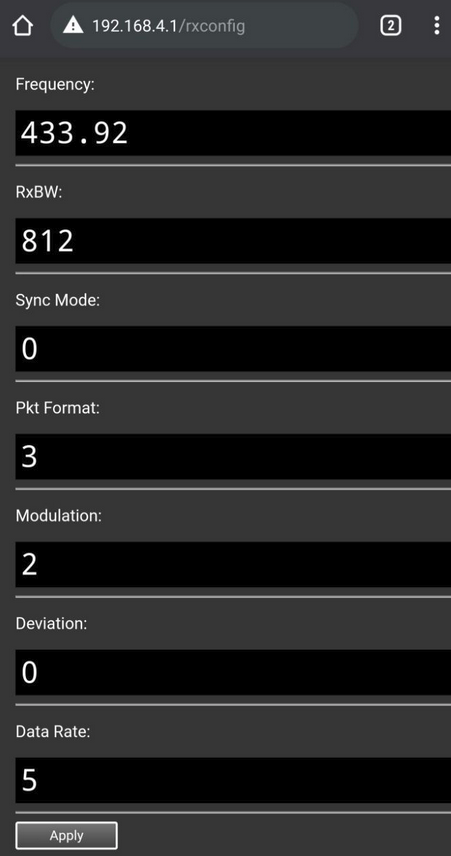
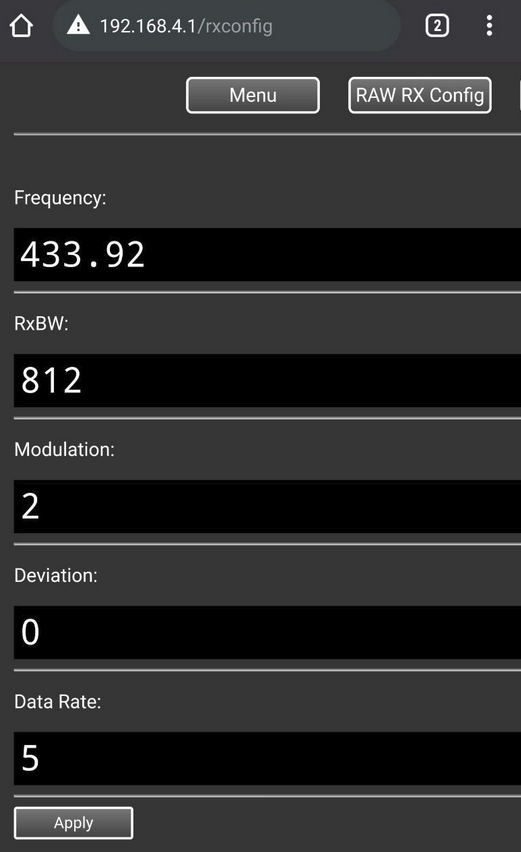
v1.0

diff --git a/EvilCrowRF-RAW/rxconfig.h b/EvilCrowRF-RAW/rxconfig.h
@@ -74,17 +74,13 @@ const char RXConfig[] PROGMEM = R"=====(
     <hr>
     <p>RxBW: </p><textarea class="console" form="config" rows="1" cols="50" name="setrxbw"></textarea>
     <hr>
-    <p>Sync Mode: </p><textarea class="console" form="config" rows="1" cols="50" name="syncmode"></textarea>
-    <hr>
-    <p>Pkt Format: </p><textarea class="console" form="config" rows="1" cols="50" name="pktformat"></textarea>
-    <hr>
     <p>Modulation: </p><textarea class="console" form="config" rows="1" cols="50" name="mod"></textarea>
     <hr>
     <p>Deviation: </p><textarea class="console" form="config" rows="1" cols="50" name="deviation"></textarea>
     <hr>
     <p>Data Rate: </p><textarea class="console" form="config" rows="1" cols="50" name="datarate"></textarea>
     <hr>
-    <INPUT type="radio" name="configmodule" value="7" hidden="1" checked="checked">
+    <INPUT type="radio" name="configmodule" value="5" hidden="1" checked="checked">
     <INPUT class="submitBtn" type="submit" value="Apply">
 </form>
 <br>

diff --git a/README.md b/README.md
@@ -183,10 +183,6 @@ Firmware for receiving and transmitting raw data (Web Panel):
 
 * RxBW bandwidth (example: 812)
 
-* Sync Mode (example: 0) // Combined sync-word qualifier mode. 0 = No preamble/sync. 1 = 16 sync word bits detected. 2 = 16/16 sync word bits detected. 3 = 30/32 sync word bits detected. 4 = No preamble/sync, carrier-sense above threshold. 5 = 15/16 + carrier-sense above threshold. 6 = 16/16 + carrier-sense above threshold. 7 = 30/32 + carrier-sense above threshold.
-
-* Pkt Format (example: 3) // Format of RX and TX data. 0 = Normal mode, use FIFOs for RX and TX. 1 = Synchronous serial mode, Data in on GDO0 and data out on either of the GDOx pins. 2 = Random TX mode; sends random data using PN9 generator. Used for test. Works as normal mode, setting 0 (00), in RX. 3 = Asynchronous serial mode, Data in on GDO0 and data out on either of the GDOx pins.
-
 * Modulation (example: 2) // set modulation mode. 0 = 2-FSK, 1 = GFSK, 2 = ASK/OOK, 3 = 4-FSK, 4 = MSK.
 
 * Desviation (example: 30.00) // Set the Frequency deviation in kHz. Value from 1.58 to 380.85. Default is 47.60 kHz.
